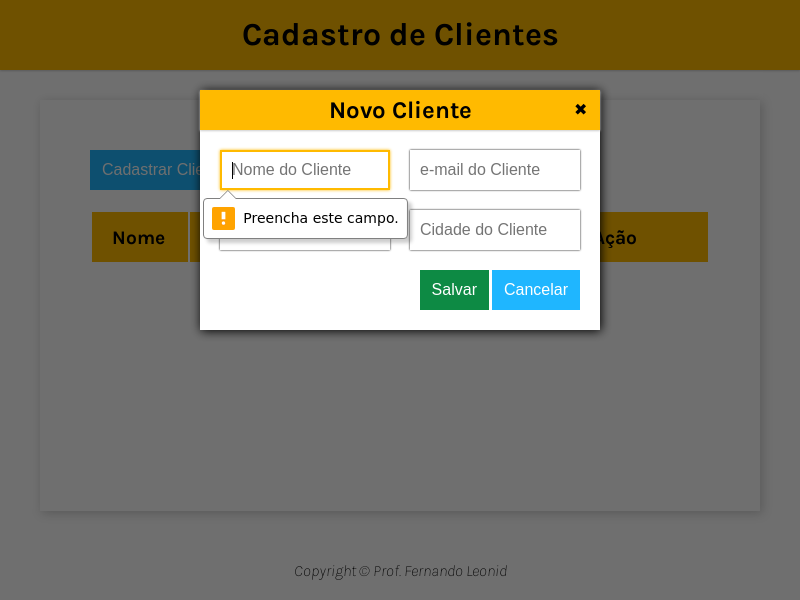
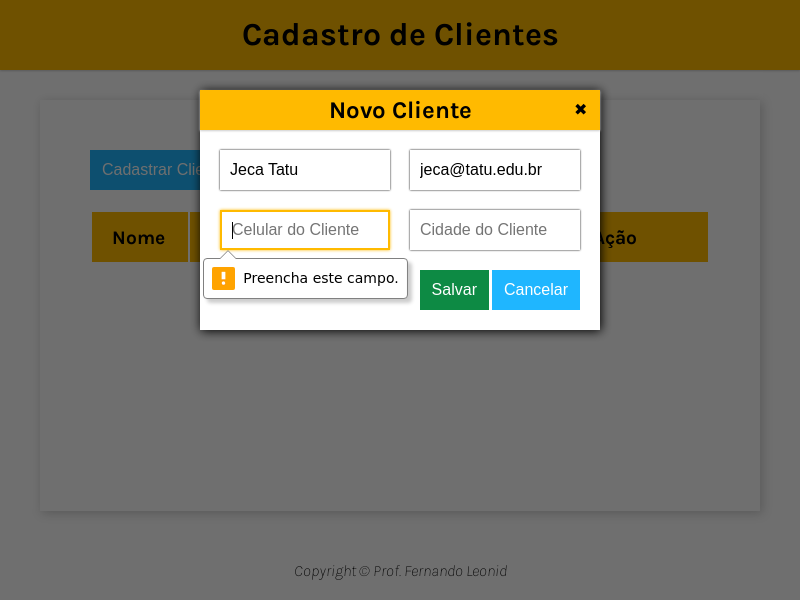
Iniciado o teste e2e  do cadastro

Changed region(s): [[0.25, 0.24, 0.5312, 0.51], [0.5312, 0.27, 0.6875, 0.3]]

diff --git a/08-crud/e2e.test.js b/08-crud/e2e.test.js
@@ -24,8 +24,21 @@ describe('CRUD', () => {
 
         await expect(classeModal).toMatch('modal');
     });
-    it('', async () =>{
+    it('Ao clicar no botão cadastrar deve abrir, digitar os inputs e ', async () =>{
         await page.click('#cadastrarCliente');
+        
+        await page.focus('#nome');
+        await page.keyboard.type('Jeca Tatu');
+
+        await page.focus('#email');
+        await page.keyboard.type('jeca@tatu.edu.br');
+
+        await page.focus('#cidade');
+        await page.keyboard.type('Jecalandia-MG')
+
+        await page.focus('#celular');
+        await page.keyboard.type('00 0000-0000');
+        
         await page.click('#salvar');
         await page.waitForTimeout(1000);
         const screenshot1 = await page.screenshot({path: `./capturas_de_tela/captura${"_salvar"}.png`});
